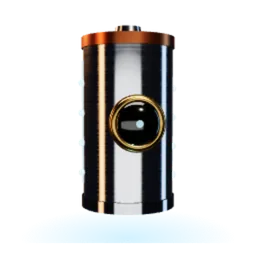
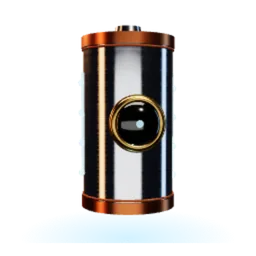
v2.2 WIP-2:七匠对齐 11:56 定稿(小点、咔哒、霜镜、莫芙、锂锂、奥加)+ 低档图重出

diff --git a/element-forge/ef-guide3d.js b/element-forge/ef-guide3d.js
@@ -52,11 +52,11 @@ function boot() {
   /* 奥加 Oga · Og-118:暗黄铜重核球 + 多道轨道环 */
   B.oga = c => {
     const g = new THREE.Group();
-    g.add(new THREE.Mesh(new THREE.SphereGeometry(0.72, 64, 48), M.brassOld({ roughness: 0.42 })));
+    g.add(new THREE.Mesh(new THREE.SphereGeometry(0.76, 64, 48), M.brassOld({ color: '#9a7a48', roughness: 0.58 })));
     const orbits = [];
     [[0.25, 0.1], [1.05, 0.9], [-0.95, 2.1], [0.55, 2.9]].forEach(([tx, tz], i) => {
       const o = new THREE.Group(); o.rotation.set(Math.PI / 2 + tx, tz, 0);
-      o.add(new THREE.Mesh(new THREE.TorusGeometry(1.12 + i * 0.05, 0.012, 8, 120), M.brass({ roughness: 0.22 })));
+      o.add(new THREE.Mesh(new THREE.TorusGeometry(1.12 + i * 0.05, 0.018, 10, 120), M.brass({ roughness: 0.22 })));
       const e = new THREE.Mesh(new THREE.SphereGeometry(0.045, 16, 12), M.glow(c, { emissiveIntensity: 2 })); e.position.x = 1.12 + i * 0.05; o.add(e);
       g.add(o); orbits.push(o);
     });
@@ -84,22 +84,28 @@ function boot() {
   };
   /* 小点 Dot · 量子点:钢框内大小渐变的发光玻璃珠(小 → 蓝,大 → 红) */
   B.dot = c => {
-    const g = new THREE.Group();
-    const frame = M.steel({ roughness: 0.25 });
-    g.add(new THREE.Mesh(new THREE.TorusGeometry(0.95, 0.045, 16, 96), frame));
-    for (let i = 0; i < 6; i++) { const a = i / 6 * Math.PI * 2; g.add(rod(V(Math.cos(a) * 0.3, Math.sin(a) * 0.3, 0), V(Math.cos(a) * 0.95, Math.sin(a) * 0.95, 0), 0.016, frame, 6)); }
-    const back = new THREE.Mesh(new THREE.CircleGeometry(0.93, 64), M.darkSteel({ roughness: 0.5 })); back.position.z = -0.12; g.add(back);
-    /* 量子点越大,发光越偏红(示意) */
-    const hues = ['#3a6bff', '#2fb8ff', '#3fe0a0', '#ffe14a', '#ff9a2a', '#ff3a3a'];
-    const beads = [];
-    for (let s = 0; s < 6; s++) {
-      const a0 = s / 6 * Math.PI * 2 + Math.PI / 6, r = 0.07 + s * 0.022, col = hues[s];
-      const mat = new THREE.MeshPhysicalMaterial({ color: col, emissive: col, emissiveIntensity: 0.55, roughness: 0.08, clearcoat: 1, transparent: true, opacity: 0.88 });
-      const n = Math.max(2, Math.round(7 - s * 0.9));
-      for (let k = 0; k < n; k++) { const ang = a0 + (rnd(s * 9 + k) - 0.5) * 0.7, rad = 0.42 + rnd(s * 13 + k) * (0.45 - r); const b = new THREE.Mesh(new THREE.SphereGeometry(r, 20, 14), mat); b.position.set(Math.cos(ang) * rad, Math.sin(ang) * rad, (rnd(k + s) - 0.5) * 0.06); g.add(b); beads.push(b); }
+    const g = new THREE.Group(), spin = new THREE.Group();
+    const frame = M.steel({ roughness: 0.22 });
+    g.add(new THREE.Mesh(new THREE.TorusGeometry(0.98, 0.05, 16, 96), frame));
+    for (let i = 0; i < 6; i++) { const a = i / 6 * Math.PI * 2 + Math.PI / 2; spin.add(rod(V(Math.cos(a) * 0.3, Math.sin(a) * 0.3, 0.1), V(Math.cos(a) * 0.97, Math.sin(a) * 0.97, 0.1), 0.018, frame, 6)); }
+    const back = new THREE.Mesh(new THREE.CircleGeometry(0.95, 64), M.darkSteel({ roughness: 0.55 })); back.position.z = -0.16; g.add(back);
+    /* 量子点:左侧小珠发蓝,右侧大珠发红(粒径越大发光越偏红,示意) */
+    const mats = {};
+    const matFor = col => mats[col] || (mats[col] = new THREE.MeshPhysicalMaterial({ color: col, emissive: col, emissiveIntensity: 0.7, roughness: 0.05, clearcoat: 1, clearcoatRoughness: 0.02, transparent: true, opacity: 0.9, envMapIntensity: 1.8 }));
+    const ramp = ['#2a4dff', '#2f7dff', '#36b8ff', '#9a6bff', '#ff4fa0', '#ff3a3a', '#ff5a1a'];
+    const placed = [];
+    for (let i = 0; i < 4000 && placed.length < 120; i++) {
+      const a = rnd(i * 3.1) * Math.PI * 2, rr = 0.36 + Math.sqrt(rnd(i * 7.7)) * 0.56;
+      const x = Math.cos(a) * rr, y = Math.sin(a) * rr, f = (x + 0.95) / 1.9;          /* 0 = 左,1 = 右 */
+      const r = 0.05 + f * 0.11 + rnd(i * 2.3) * 0.02;
+      if (rr + r > 0.94) continue;
+      if (placed.some(q => Math.hypot(q[0] - x, q[1] - y) < q[2] + r + 0.004)) continue;
+      placed.push([x, y, r]);
+      const b = new THREE.Mesh(new THREE.SphereGeometry(r, 20, 14), matFor(ramp[Math.min(6, Math.floor(f * 7))])); b.position.set(x, y, -0.16 + r); g.add(b);
     }
-    const E = eye(c, 0.24); E.position.z = 0.05; g.add(E);
-    g.userData.eye = E; g.userData.anim = (t, k) => { g.children[0].rotation.z = t * 0.2; };
+    g.add(spin);
+    const E = eye(c, 0.24); E.position.z = 0.08; g.add(E);
+    g.userData.eye = E; g.userData.anim = (t) => { spin.rotation.z = Math.sin(t * 0.3) * 0.08; };
     return g;
   };
   /* 锂锂 Lili · 锂离子电芯:拉丝铝壳,铜/铝端盖,侧面离子光道 */
@@ -107,11 +113,13 @@ function boot() {
     const g = new THREE.Group();
     g.add(new THREE.Mesh(new THREE.CylinderGeometry(0.5, 0.5, 1.7, 64), M.aluminum()));
     const cap = (y, mat) => { const m = new THREE.Mesh(new THREE.CylinderGeometry(0.52, 0.52, 0.12, 64), mat); m.position.y = y; g.add(m); };
-    cap(0.88, M.copper()); cap(-0.88, M.aluminum({ color: '#b9bcc2', roughness: 0.2 }));
+    cap(0.88, M.copper()); cap(-0.88, M.copper());
+    [0.8, -0.8].forEach(y => { const r = new THREE.Mesh(new THREE.TorusGeometry(0.505, 0.012, 8, 64), M.copper({ roughness: 0.2 })); r.rotation.x = Math.PI / 2; r.position.y = y; g.add(r); });
+    const nub2 = new THREE.Mesh(new THREE.CylinderGeometry(0.12, 0.12, 0.06, 32), M.steel()); nub2.position.y = -0.97; g.add(nub2);
     const nub = new THREE.Mesh(new THREE.CylinderGeometry(0.14, 0.16, 0.12, 32), M.steel()); nub.position.y = 1.0; g.add(nub);
     const ions = [];
     [-1, 1].forEach(sd => {
-      const ch = new THREE.Mesh(new THREE.BoxGeometry(0.035, 1.35, 0.06), M.glow(c, { emissiveIntensity: 0.6, transparent: true, opacity: 0.55 })); ch.position.set(sd * 0.5, 0, 0); g.add(ch);
+      const ch = new THREE.Mesh(new THREE.BoxGeometry(0.04, 1.1, 0.12), M.glow(c, { emissiveIntensity: 1.4, transparent: true, opacity: 0.8 })); ch.position.set(sd * 0.5, 0, 0); g.add(ch);
       for (let i = 0; i < 4; i++) { const d = new THREE.Mesh(new THREE.SphereGeometry(0.04, 12, 8), M.glow(c, { emissiveIntensity: 2.6 })); d.position.set(sd * 0.52, 0, 0.02); d.userData.o = i / 4 + (sd > 0 ? 0.12 : 0); d.userData.dir = sd; g.add(d); ions.push(d); }
     });
     const E = eye(c, 0.25); E.position.z = 0.5; g.add(E);
@@ -120,57 +128,70 @@ function boot() {
   };
   /* 莫芙 Mof · 金属有机框架:金属节点 + 有机连杆的多孔晶格,孔里含水珠 */
   B.mof = c => {
-    const g = new THREE.Group(), nodeM = M.steel({ roughness: 0.22 }), linkM = new THREE.MeshStandardMaterial({ color: '#b9b2c9', metalness: 0.6, roughness: 0.35 });
-    const s = 0.62, pts = [];
-    for (let x = -1; x <= 1; x++) for (let y = -1; y <= 1; y++) for (let z = -1; z <= 1; z++) pts.push(V(x * s, y * s, z * s * 0.8));
-    const nodeG = new THREE.SphereGeometry(0.075, 16, 12);
-    pts.forEach(p => { const n = new THREE.Mesh(nodeG, nodeM); n.position.copy(p); g.add(n); });
-    for (let i = 0; i < pts.length; i++) for (let j = i + 1; j < pts.length; j++) { const d = pts[i].distanceTo(pts[j]); if (d < s * 1.01 || Math.abs(d - s * 0.8) < 0.01) g.add(rod(pts[i], pts[j], 0.014, linkM, 6)); }
-    /* 面对角斜撑(有机连杆) */
-    [[-1, -1], [1, -1], [-1, 1], [1, 1]].forEach(([a, b]) => g.add(rod(V(a * s, b * s, s * 0.8), V(0, 0, 0), 0.01, linkM, 5)));
-    const water = new THREE.MeshPhysicalMaterial({ color: '#cfe6ff', roughness: 0.02, clearcoat: 1, transparent: true, opacity: 0.55, envMapIntensity: 2 });
+    const g = new THREE.Group(), nodeM = M.steel({ roughness: 0.18 }), linkM = new THREE.MeshStandardMaterial({ color: '#c3bcd6', metalness: 0.7, roughness: 0.3 });
+    const s = 0.42, pts = [], n = 2, zs = 0.75;
+    for (let x = -n; x <= n; x++) for (let y = -n; y <= n; y++) for (let z = -1; z <= 1; z++) pts.push(V(x * s, y * s, z * s * zs * 1.4));
+    const big = new THREE.SphereGeometry(0.07, 16, 12), small = new THREE.SphereGeometry(0.045, 12, 8);
+    pts.forEach((p, i) => { const corner = (Math.abs(p.x) + Math.abs(p.y)) > s * 2.9 || (i % 2 === 0); const m = new THREE.Mesh(corner ? big : small, nodeM); m.position.copy(p); g.add(m); });
+    for (let i = 0; i < pts.length; i++) for (let j = i + 1; j < pts.length; j++) { const d = pts[i].distanceTo(pts[j]); if (d < s * 1.01 || Math.abs(d - s * zs * 1.4) < 0.01) g.add(rod(pts[i], pts[j], 0.011, linkM, 5)); else if (Math.abs(d - s * Math.SQRT2) < 0.01 && Math.abs(pts[i].z - pts[j].z) < 0.01 && (i + j) % 3 === 0) g.add(rod(pts[i], pts[j], 0.007, linkM, 4)); }
+    const water = new THREE.MeshPhysicalMaterial({ color: '#d6e9ff', roughness: 0.02, clearcoat: 1, transparent: true, opacity: 0.5, envMapIntensity: 2.2 });
     const drops = [];
-    [[0.31, 0.31, 0.25], [-0.31, -0.31, -0.25], [0.31, -0.31, -0.25], [-0.31, 0.31, 0.25]].forEach((p, i) => { const d = new THREE.Mesh(new THREE.SphereGeometry(0.1 + i % 2 * 0.03, 20, 14), water); d.position.set(...p); g.add(d); drops.push(d); });
-    const E = eye(c, 0.22); E.position.z = s * 0.8 + 0.02; g.add(E);
-    g.userData.eye = E; g.userData.anim = (t) => { const k = 1.08 * (1 + Math.sin(t * 1.3) * 0.025); g.scale.setScalar(k); drops.forEach((d, i) => d.scale.setScalar(1 + Math.sin(t * 1.3 + i) * 0.12)); };
-    g.scale.setScalar(1.08); g.userData.baseRot = [0.22, 0.38];
+    for (let i = 0; i < 10; i++) { const d = new THREE.Mesh(new THREE.SphereGeometry(0.06 + rnd(i) * 0.05, 18, 12), water); d.position.set((Math.floor(rnd(i + 5) * 4) - 1.5) * s, (Math.floor(rnd(i + 9) * 4) - 1.5) * s, (rnd(i + 3) - 0.5) * s); g.add(d); drops.push(d); }
+    const E = eye(c, 0.22); E.position.z = s * zs * 1.4 + 0.04; g.add(E);
+    g.userData.eye = E; g.userData.anim = (t) => { const k = 1.0 * (1 + Math.sin(t * 1.3) * 0.025); g.scale.setScalar(k); drops.forEach((d, i) => d.scale.setScalar(1 + Math.sin(t * 1.3 + i) * 0.15)); };
+    g.userData.baseRot = [0.12, 0.32];
     return g;
   };
   /* 咔哒 Click · 点击化学:钢/黄铜卡扣双模块立于小砧台 */
   B.click = c => {
-    const g = new THREE.Group(), ds = M.darkSteel();
-    /* 砧台:台面 + 腰 + 底座 + 角 */
-    const top = new THREE.Mesh(new THREE.BoxGeometry(1.5, 0.22, 0.62), ds); top.position.y = -0.38; g.add(top);
-    const horn = new THREE.Mesh(new THREE.ConeGeometry(0.16, 0.5, 20), ds); horn.rotation.z = Math.PI / 2; horn.position.set(1.0, -0.38, 0); horn.scale.set(1, 1, 0.8); g.add(horn);
-    const waist = new THREE.Mesh(new THREE.CylinderGeometry(0.22, 0.32, 0.36, 4), ds); waist.rotation.y = Math.PI / 4; waist.position.y = -0.67; waist.scale.z = 0.7; g.add(waist);
-    const foot = new THREE.Mesh(new THREE.BoxGeometry(1.0, 0.14, 0.62), ds); foot.position.y = -0.9; g.add(foot);
-    const strip = new THREE.Mesh(new THREE.BoxGeometry(0.9, 0.02, 0.5), M.glow(c, { emissiveIntensity: 1.4 })); strip.position.y = -0.98; g.add(strip);
-    /* 两个模块:下钢块 + 上黄铜块,带卡扣 */
-    const low = new THREE.Group(), lowB = new THREE.Mesh(new THREE.BoxGeometry(0.62, 0.36, 0.48), M.steel()); low.add(lowB);
-    [-1, 1].forEach(sd => { const tab = new THREE.Mesh(new THREE.BoxGeometry(0.08, 0.26, 0.2), M.brass()); tab.position.set(sd * 0.3, 0.2, 0); low.add(tab); });
-    low.position.y = -0.09; g.add(low);
-    const up = new THREE.Group(), upB = new THREE.Mesh(new THREE.BoxGeometry(0.46, 0.3, 0.42), M.brass({ roughness: 0.3 })); up.add(upB);
-    const cylT = new THREE.Mesh(new THREE.CylinderGeometry(0.13, 0.13, 0.22, 24), M.steel({ color: '#6f8f6a', roughness: 0.3 })); cylT.position.y = 0.26; up.add(cylT);
-    const E = eye(c, 0.17); E.position.set(0, -0.12, 0.25); low.add(E);
-    up.position.y = 0.32; g.add(up);
+    const g = new THREE.Group(), ds = M.darkSteel({ color: '#6c727b', roughness: 0.3 });
+    /* 砧台:宽平台面 + 喇叭角 + 收腰 + 宽底座(侧面轮廓挤出) */
+    const sh = new THREE.Shape();
+    sh.moveTo(-0.62, 0); sh.lineTo(0.55, 0); sh.quadraticCurveTo(0.95, -0.02, 1.12, 0.08); sh.lineTo(0.62, -0.2); sh.lineTo(0.3, -0.22);
+    sh.quadraticCurveTo(0.2, -0.45, 0.42, -0.62); sh.lineTo(0.5, -0.74); sh.lineTo(-0.58, -0.74); sh.lineTo(-0.5, -0.62); sh.quadraticCurveTo(-0.28, -0.45, -0.38, -0.22);
+    sh.lineTo(-0.62, -0.18); sh.lineTo(-0.62, 0);
+    const ag = new THREE.ExtrudeGeometry(sh, { depth: 0.5, bevelEnabled: true, bevelThickness: 0.02, bevelSize: 0.02, bevelSegments: 2, curveSegments: 12 }); ag.translate(-0.15, 0, -0.25);
+    const anvil = new THREE.Mesh(ag, ds); anvil.position.y = -0.24; g.add(anvil);
+    const face = new THREE.Mesh(new THREE.BoxGeometry(1.15, 0.02, 0.5), M.steel({ roughness: 0.18 })); face.position.set(-0.17, -0.23, 0); g.add(face);
+    const strip = new THREE.Mesh(new THREE.BoxGeometry(1.0, 0.025, 0.5), M.glow(c, { emissiveIntensity: 1.8 })); strip.position.set(-0.19, -1.0, 0); g.add(strip);
+    /* 下模块:钢块 + 黄铜卡扣夹 */
+    const low = new THREE.Group();
+    low.add(new THREE.Mesh(new THREE.BoxGeometry(0.62, 0.42, 0.46), M.steel()));
+    const clamp = new THREE.Mesh(new THREE.BoxGeometry(0.66, 0.1, 0.5), M.brass({ roughness: 0.28 })); clamp.position.y = -0.2; low.add(clamp);
+    const clip = new THREE.Mesh(new THREE.BoxGeometry(0.16, 0.3, 0.5), M.brass({ roughness: 0.28 })); clip.position.set(0.33, 0.04, 0); low.add(clip);
+    const E = eye(c, 0.15); E.position.set(-0.04, 0.02, 0.24); low.add(E);
+    low.position.y = 0.04; g.add(low);
+    /* 上模块:黄铜颈 + 绿色卡扣帽 */
+    const up = new THREE.Group();
+    up.add(new THREE.Mesh(new THREE.CylinderGeometry(0.15, 0.15, 0.24, 32), M.brass({ roughness: 0.26 })));
+    const capM = new THREE.MeshStandardMaterial({ color: '#7fae6a', metalness: 0.55, roughness: 0.35 });
+    const cap = new THREE.Mesh(new THREE.CylinderGeometry(0.18, 0.18, 0.16, 32), capM); cap.position.y = 0.2; up.add(cap);
+    const ring = new THREE.Mesh(new THREE.TorusGeometry(0.155, 0.015, 8, 40), capM); ring.rotation.x = Math.PI / 2; ring.position.y = 0.02; up.add(ring);
+    up.position.y = 0.42; g.add(up);
     g.userData.eye = E;
-    g.userData.anim = (t, k) => { const gap = k > 0.3 ? 0.02 : 0.08 + Math.sin(t * 1.6) * 0.03; up.position.y = 0.26 + gap; };
-    g.position.y = 0.16; g.scale.setScalar(1.12);
+    g.userData.anim = (t, k) => { const gap = k > 0.3 ? 0 : 0.05 + Math.sin(t * 1.6) * 0.03; up.position.y = 0.39 + gap; };
+    g.position.y = 0.12; g.scale.setScalar(1.08); g.userData.baseRot = [0.1, -0.25];
     return g;
   };
   /* 霜镜 Cryo · 冷冻电镜:结霜白陶瓷镜筒,钢顶盖,底部冰凌 */
   B.cryo = c => {
     const g = new THREE.Group();
-    g.add(new THREE.Mesh(new THREE.CylinderGeometry(0.46, 0.5, 1.5, 64), M.ceramic()));
-    const fr = new THREE.Mesh(new THREE.CylinderGeometry(0.475, 0.515, 1.46, 64, 1, true), M.frost({ transparent: true, opacity: 0.65 })); g.add(fr);
-    const top = new THREE.Mesh(new THREE.CylinderGeometry(0.34, 0.4, 0.22, 48), M.steel()); top.position.y = 0.86; g.add(top);
-    const top2 = new THREE.Mesh(new THREE.CylinderGeometry(0.22, 0.26, 0.14, 40), M.steel({ roughness: 0.2 })); top2.position.y = 1.03; g.add(top2);
-    const ring = new THREE.Mesh(new THREE.TorusGeometry(0.5, 0.035, 12, 64), M.steel()); ring.rotation.x = Math.PI / 2; ring.position.y = -0.62; g.add(ring);
-    const ice = new THREE.MeshPhysicalMaterial({ color: '#e8f6ff', roughness: 0.05, clearcoat: 1, transparent: true, opacity: 0.7, envMapIntensity: 2 });
-    for (let i = 0; i < 14; i++) { const a = i / 14 * Math.PI * 2 + rnd(i) * 0.3, L = 0.1 + rnd(i + 40) * 0.2; const ic = new THREE.Mesh(new THREE.ConeGeometry(0.03, L, 8), ice); ic.rotation.x = Math.PI; ic.position.set(Math.cos(a) * 0.48, -0.76 - L / 2, Math.sin(a) * 0.48); g.add(ic); }
-    const E = eye(c, 0.23); E.position.set(0, 0.05, 0.49); g.add(E);
+    g.add(new THREE.Mesh(new THREE.CylinderGeometry(0.47, 0.47, 1.5, 64), M.ceramic({ color: '#c3ccd3', roughness: 0.6 })));
+    /* 霜层:顶点随机外鼓的开口筒,双层叠加 */
+    [[0.5, 0.75], [0.53, 0.45]].forEach(([r, op], L) => {
+      const fg = new THREE.CylinderGeometry(r, r, 1.42, 72, 24, true), pa = fg.attributes.position;
+      for (let i = 0; i < pa.count; i++) { const x = pa.getX(i), z = pa.getZ(i), y = pa.getY(i), k = 1 + (rnd(i * 1.7 + L * 99) * 0.07) * (0.6 + 0.4 * Math.abs(y)); pa.setXYZ(i, x * k, y, z * k); }
+      fg.computeVertexNormals();
+      g.add(new THREE.Mesh(fg, M.frost({ color: L ? '#eef7fc' : '#cfe0ea', transparent: true, opacity: op, bumpScale: 2.2 })));
+    });
+    const top = new THREE.Mesh(new THREE.CylinderGeometry(0.42, 0.46, 0.16, 48), M.steel()); top.position.y = 0.82; g.add(top);
+    const top2 = new THREE.Mesh(new THREE.CylinderGeometry(0.26, 0.3, 0.16, 40), M.steel({ roughness: 0.2 })); top2.position.y = 0.97; g.add(top2);
+    const bot = new THREE.Mesh(new THREE.CylinderGeometry(0.46, 0.42, 0.12, 48), M.steel()); bot.position.y = -0.8; g.add(bot);
+    const ice = new THREE.MeshPhysicalMaterial({ color: '#e8f6ff', roughness: 0.05, clearcoat: 1, transparent: true, opacity: 0.75, envMapIntensity: 2.2 });
+    for (let i = 0; i < 26; i++) { const a = i / 26 * Math.PI * 2 + rnd(i) * 0.2, L = 0.08 + rnd(i + 40) * 0.26; const ic = new THREE.Mesh(new THREE.ConeGeometry(0.022 + rnd(i + 7) * 0.02, L, 7), ice); ic.rotation.x = Math.PI; ic.position.set(Math.cos(a) * 0.44, -0.86 - L / 2, Math.sin(a) * 0.44); g.add(ic); }
+    const E = eye(c, 0.23); E.position.set(0, 0.05, 0.53); g.add(E);
     g.userData.eye = E; g.userData.anim = () => { };
-    g.scale.setScalar(0.92);
+    g.scale.setScalar(0.95);
     return g;
   };
   function rnd(i) { const x = Math.sin(i * 127.1 + 311.7) * 43758.5453; return x - Math.floor(x); }
